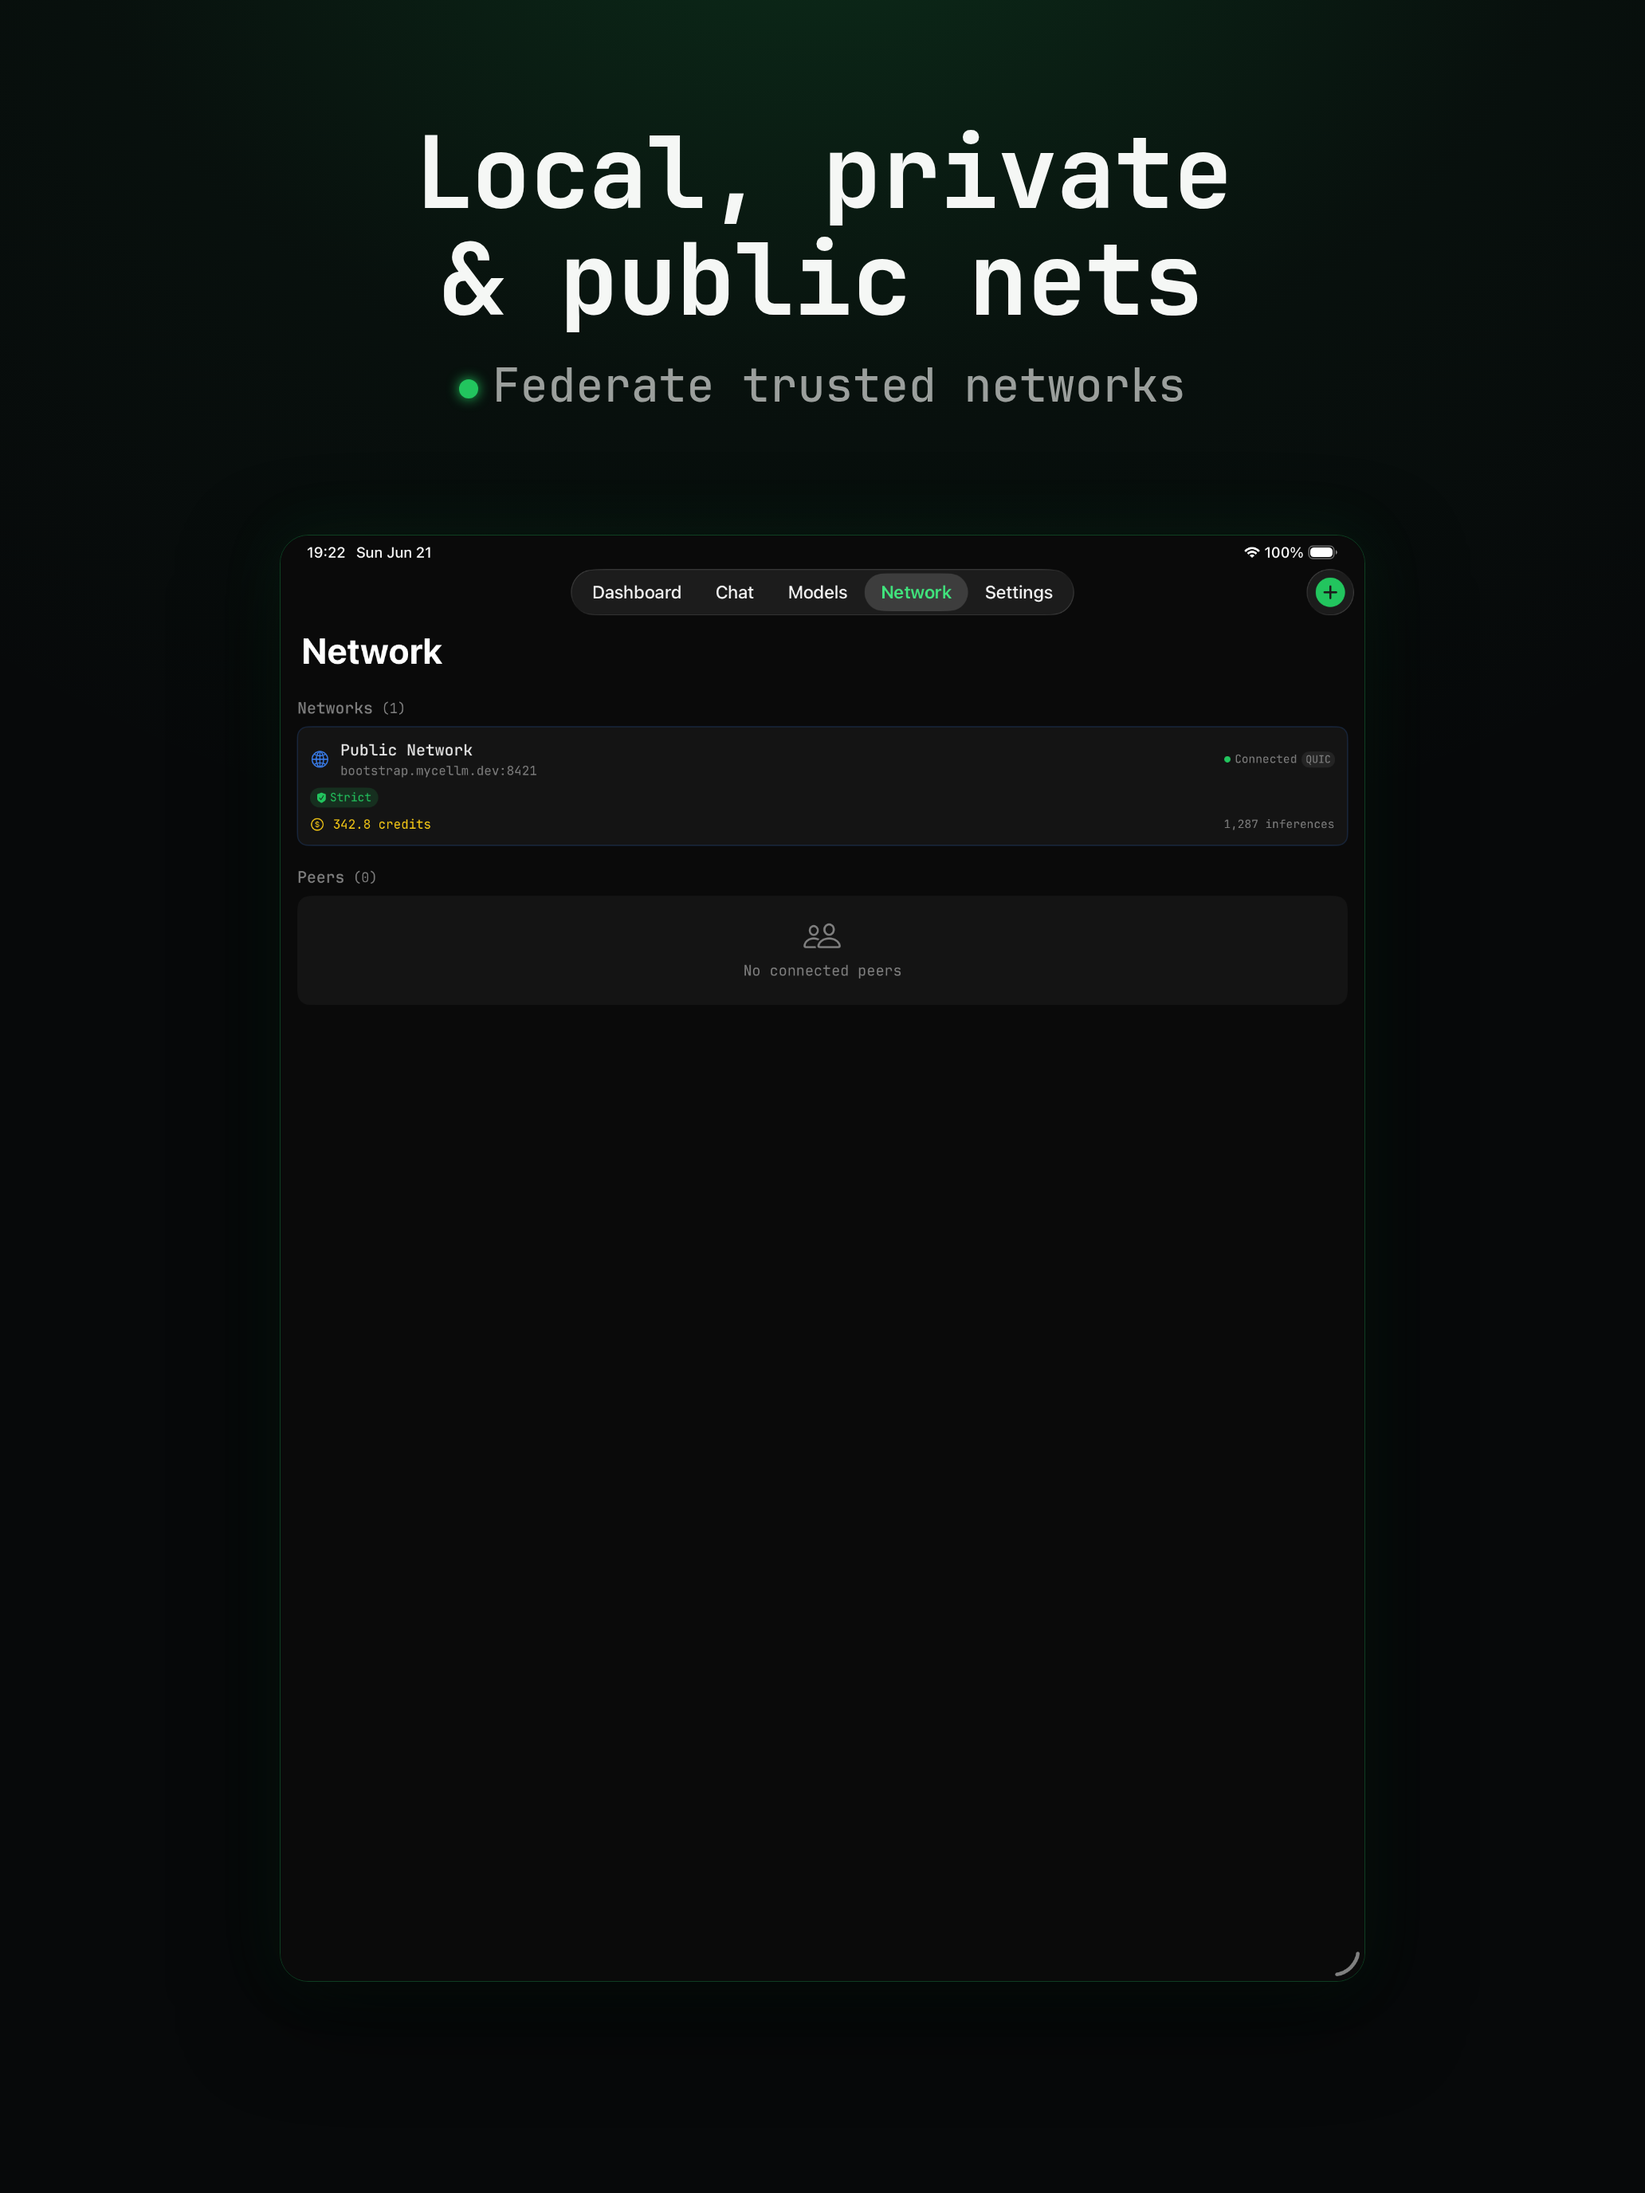
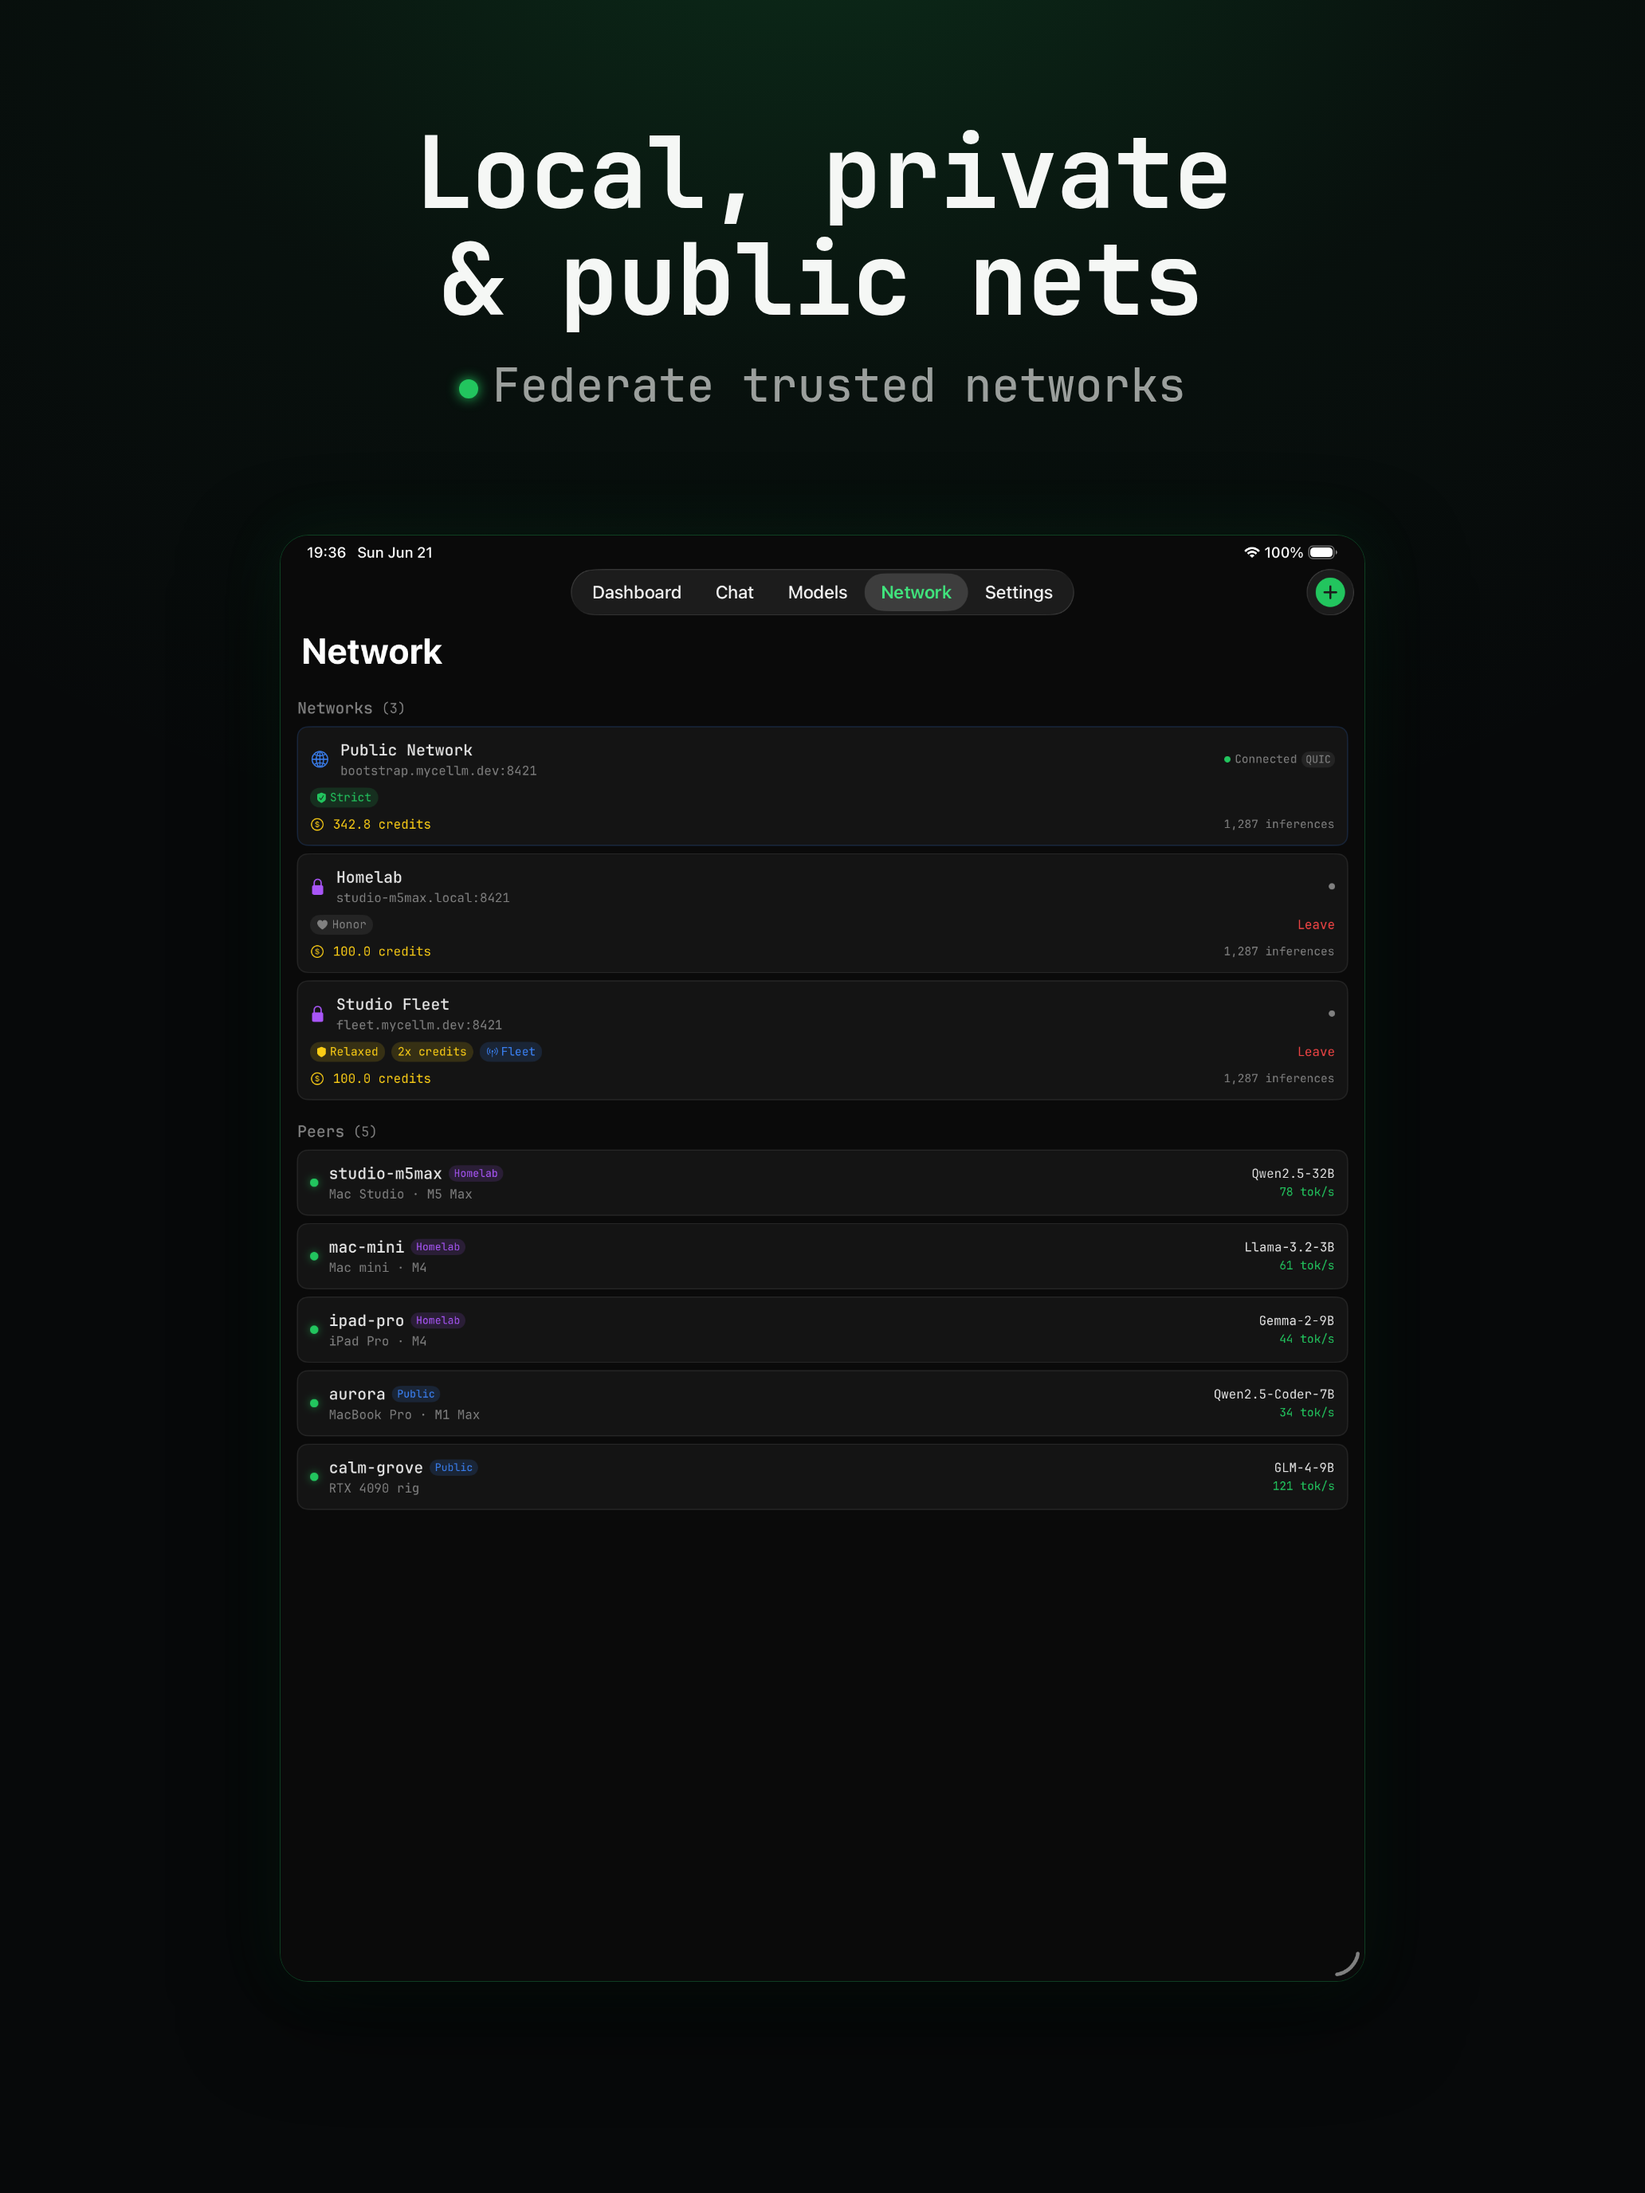
screenshots: populate Network screen (3 networks + 5 peers) for marketing
- NetworkRegistry.applyScreenshotFixture(): Public + Homelab + Studio Fleet.
- PeersView: render mock connected peers in screenshot mode (studio-m5max
  running Qwen2.5-32B @78 t/s, mac-mini, ipad-pro, aurora, calm-grove).
- Fixes the previously-sparse iPad Network marketing shot.
- Lowercase brand 'mycellm' in listing name.

Changed region(s): [[0.186, 0.5312, 0.3101, 0.6875], [0.186, 0.375, 0.3411, 0.5], [0.7752, 0.5312, 0.8062, 0.6875]]

diff --git a/Mycellm/Views/Peers/PeersView.swift b/Mycellm/Views/Peers/PeersView.swift
@@ -234,12 +234,61 @@ struct PeersView: View {
 
     private var peersSection: some View {
         VStack(alignment: .leading, spacing: 8) {
+            #if DEBUG
+            if ScreenshotMode.isActive {
+                SectionHeader(title: "Peers", count: ScreenshotMode.mockPeers.count)
+                ForEach(ScreenshotMode.mockPeers) { peer in mockPeerRow(peer) }
+            } else {
+                SectionHeader(title: "Peers", count: 0)
+                EmptyState(message: "No connected peers", icon: "person.2")
+            }
+            #else
             SectionHeader(title: "Peers", count: 0)
-
             EmptyState(message: "No connected peers", icon: "person.2")
+            #endif
         }
         .padding(.horizontal)
     }
+
+    #if DEBUG
+    private func mockPeerRow(_ peer: ScreenshotMode.MockPeer) -> some View {
+        HStack(spacing: 10) {
+            Circle()
+                .fill(Color.sporeGreen)
+                .frame(width: 8, height: 8)
+                .shadow(color: Color.sporeGreen.opacity(0.6), radius: 4)
+            VStack(alignment: .leading, spacing: 2) {
+                HStack(spacing: 6) {
+                    Text(peer.name)
+                        .font(.mono(13, weight: .semibold))
+                        .foregroundStyle(Color.consoleText)
+                    Text(peer.net)
+                        .font(.mono(8))
+                        .foregroundStyle(peer.net == "Public" ? Color.relayBlue : Color.poisonPurple)
+                        .padding(.horizontal, 5)
+                        .padding(.vertical, 1)
+                        .background((peer.net == "Public" ? Color.relayBlue : Color.poisonPurple).opacity(0.15), in: Capsule())
+                }
+                Text(peer.device)
+                    .font(.mono(10))
+                    .foregroundStyle(Color.consoleDim)
+            }
+            Spacer()
+            VStack(alignment: .trailing, spacing: 2) {
+                Text(peer.model)
+                    .font(.mono(10))
+                    .foregroundStyle(Color.consoleText)
+                Text(String(format: "%.0f tok/s", peer.tps))
+                    .font(.mono(9))
+                    .foregroundStyle(Color.sporeGreen)
+            }
+        }
+        .padding(12)
+        .background(Color.cardBackground)
+        .clipShape(RoundedRectangle(cornerRadius: 10))
+        .overlay(RoundedRectangle(cornerRadius: 10).stroke(Color.cardBorder, lineWidth: 1))
+    }
+    #endif
 
     // MARK: - Join Network Sheet
 

diff --git a/Mycellm/Core/ScreenshotMode.swift b/Mycellm/Core/ScreenshotMode.swift
@@ -26,6 +26,24 @@ enum ScreenshotMode {
     }
 
     #if DEBUG
+    /// Mock connected peers for the Network screen marketing capture.
+    struct MockPeer: Identifiable {
+        let id = UUID()
+        let name: String
+        let device: String
+        let model: String
+        let tps: Double
+        let net: String
+    }
+
+    static let mockPeers: [MockPeer] = [
+        .init(name: "studio-m5max", device: "Mac Studio · M5 Max", model: "Qwen2.5-32B", tps: 78.4, net: "Homelab"),
+        .init(name: "mac-mini", device: "Mac mini · M4", model: "Llama-3.2-3B", tps: 61.2, net: "Homelab"),
+        .init(name: "ipad-pro", device: "iPad Pro · M4", model: "Gemma-2-9B", tps: 44.0, net: "Homelab"),
+        .init(name: "aurora", device: "MacBook Pro · M1 Max", model: "Qwen2.5-Coder-7B", tps: 33.5, net: "Public"),
+        .init(name: "calm-grove", device: "RTX 4090 rig", model: "GLM-4-9B", tps: 121.0, net: "Public"),
+    ]
+
     private static let demoTitle = "On-device chat"
 
     /// Seed a showcase on-device conversation into the chat store so the Chat

diff --git a/Mycellm/Core/Network/NetworkMembership.swift b/Mycellm/Core/Network/NetworkMembership.swift
@@ -95,6 +95,28 @@ final class NetworkRegistry: @unchecked Sendable {
         }
     }
 
+    #if DEBUG
+    /// Populate a rich multi-network membership set for App Store screenshot
+    /// capture (gated by ScreenshotMode; compiled out of Release builds).
+    func applyScreenshotFixture() {
+        var pub = NetworkMembership.publicNetwork
+        pub.isConnected = true
+        let homelab = NetworkMembership(
+            id: "homelab", name: "Homelab",
+            bootstrapHost: "studio-m5max.local",
+            trustLevel: .honor, isConnected: true
+        )
+        let fleet = NetworkMembership(
+            id: "studio-fleet", name: "Studio Fleet",
+            bootstrapHost: "fleet.mycellm.dev",
+            fleetKey: "fk_9a3f2c", trustLevel: .relaxed,
+            creditMultiplier: 2.0, isConnected: true
+        )
+        memberships = [pub, homelab, fleet]
+        for m in memberships where ledgers[m.id] == nil { ledgers[m.id] = CreditLedger() }
+    }
+    #endif
+
     /// Join a new network.
     func join(
         name: String,

diff --git a/Mycellm/Core/Network/NodeService.swift b/Mycellm/Core/Network/NodeService.swift
@@ -422,6 +422,7 @@ final class NodeService: @unchecked Sendable {
             NetworkBalance(networkId: "public", balance: 342.75, earned: 409.5, spent: 66.75),
         ]
         modelManager.applyScreenshotFixture()
+        networkRegistry.applyScreenshotFixture()
         stats.addEvent(.nodeStarted)
         stats.addEvent(.modelLoaded("Qwen2.5-3B-Instruct"))
         stats.addEvent(.networkInfo(lan: "192.168.1.42", wan: "73.118.4.207", nat: "Full Cone"))

diff --git a/store/listing-v1.0.0.md b/store/listing-v1.0.0.md
@@ -8,7 +8,7 @@ voice; first-class on ANY device that serves a model. Use cases: https://mycellm
 Applied live to App Store Connect (app id 6761091607, 1.0.0). Limits: name 30 · subtitle 30 · promo 170 · keywords 100 · description 4000.
 
 ## App name (≤30)
-**Mycellm — Run LLMs** · 18  (current ASC reserved name; kept). Alt: `Mycellm — Distributed AI` · 24
+**mycellm — Run LLMs** · 18  (current ASC reserved name; kept). Alt: `mycellm — Distributed AI` · 24
 
 ## Subtitle (≤30)
 **Your node for distributed AI** · 28
